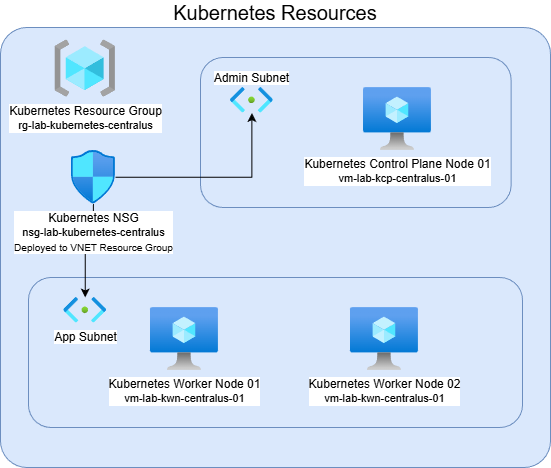
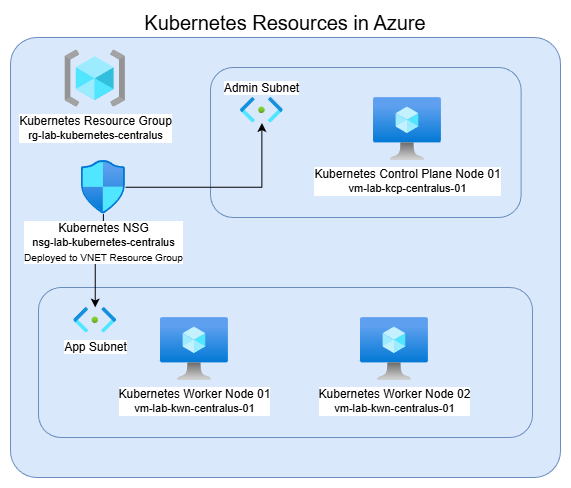
docs: update README.md file to contain information about Azure resources provisioned and os support.

Changed region(s): [[0.0, 0.0, 1.0, 1.0], [0.5554, 0.6282, 0.833, 0.8675]]

diff --git a/README.md b/README.md
@@ -6,10 +6,12 @@ This project provides a framework for building, deploying, and managing a Kubern
 This project is under construction. Please be patient.
 
 ## Cloud Providers
-Azure build is currently in progress
+![Azure Resources Diagram](./docs/diagrams/azure-resources.png)
 
-## Features
-- Modular architecture for platform components
+<sub>Note: The VNets and subnets are assumed to already exist and are not provisioned by this IaC project.</sub>
+
+## Operating System Support
+This project supports **Ubuntu** as the operating system for both Kubernetes control plane and worker node virtual machines. Other operating systems are not currently supported.
 
 ## License
 This project is licensed under the MIT License. See the LICENSE file for details.
